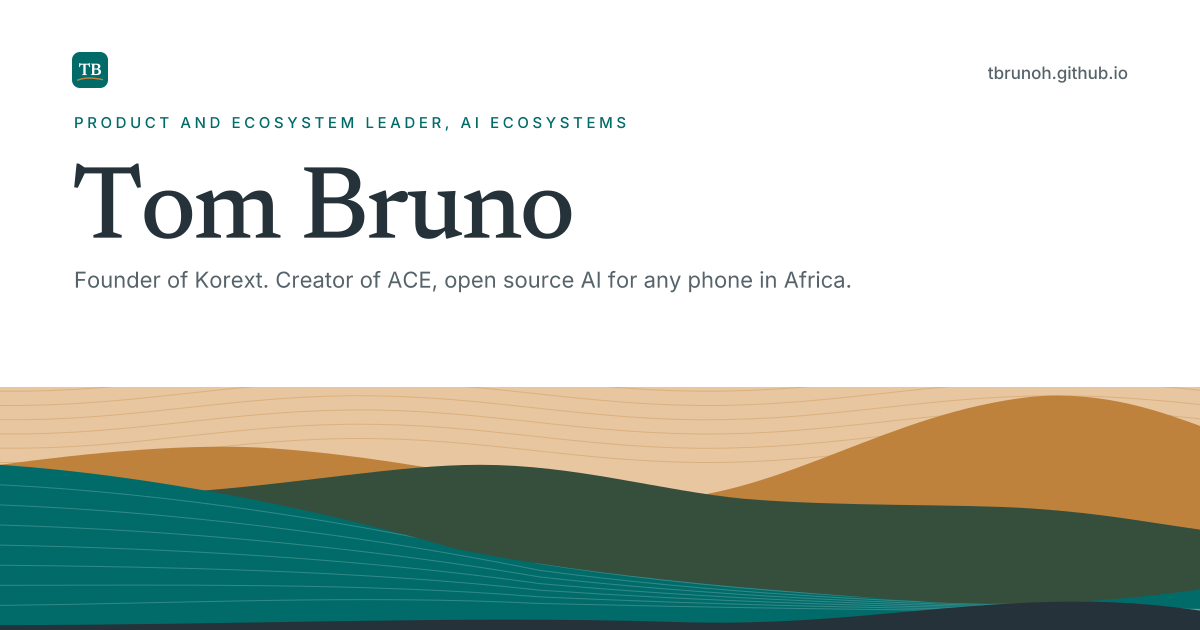
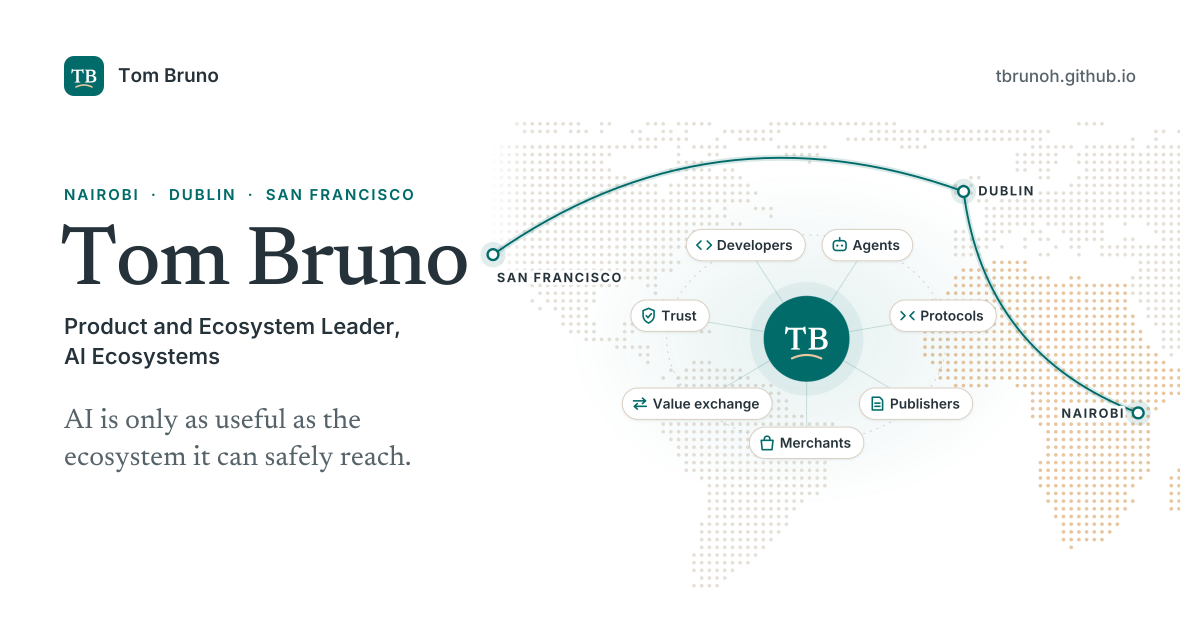
Home: the journey from Nairobi to Dublin to San Francisco, TB at the centre

diff --git a/index.html b/index.html
@@ -124,7 +124,7 @@
       "url": "https://tbrunoh.github.io/",
       "name": "Tom Bruno | Product and Ecosystem Leader, AI Ecosystems",
       "dateCreated": "2026-11-23T18:00:00-08:00",
-      "dateModified": "2026-11-25T10:00:00-08:00",
+      "dateModified": "2026-11-25T10:45:00-08:00",
       "inLanguage": "en-US",
       "mainEntity": {
         "@id": "https://tbrunoh.github.io/#person"
@@ -184,7 +184,7 @@
 
 <link rel="preload" href="/assets/fonts/newsreader-latin-wght-normal.woff2" as="font" type="font/woff2" crossorigin>
 <link rel="preload" href="/assets/fonts/inter-latin-wght-normal.woff2" as="font" type="font/woff2" crossorigin>
-<link rel="stylesheet" href="/assets/coast.css?v=20261125">
+<link rel="stylesheet" href="/assets/coast.css?v=20261125b">
 </head>
 <body>
 <header class="topbar">
@@ -211,7 +211,10 @@
     </div>
     <div class="portrait rise d1"><img src="https://github.com/tbrunoh.png?size=600" alt="Portrait of Tom Bruno" width="300" height="300"></div>
   </header>
-  <div class="landscape rise d3"><img src="/assets/coast-to-dunes.svg" alt="" width="1365" height="368"></div>
+  <figure class="panel journey rise d3">
+    <picture><source media="(max-width: 640px)" srcset="/assets/journey-mobile.svg" width="640" height="620"><img src="/assets/journey.svg" width="1056" height="430" alt="A map of Tom Bruno's path from Nairobi, where it began, to Dublin, where his Google career started, to San Francisco today, with TB at the centre of agents, protocols, publishers, merchants, value exchange, trust and developers."></picture>
+    <figcaption><span class="eyebrow">Nairobi · Dublin · San Francisco</span><q>AI is only as useful as the ecosystem it can safely reach.</q></figcaption>
+  </figure>
 
   <section id="work" aria-labelledby="work-h">
     <div class="eyebrow">Work</div>
@@ -304,7 +307,7 @@
 
 </main>
 <footer id="connect" class="wrap">
-  <div class="landscape slim"><img src="/assets/coast-to-dunes.svg" alt="" width="1365" height="368" loading="lazy"></div>
+  <img class="contours" src="/assets/contours.svg" alt="" width="1200" height="72" loading="lazy">
   <div class="row">
     <div class="who">
       <span>© 2026 Tom Bruno · Product and Ecosystem Leader, AI Ecosystems</span>
